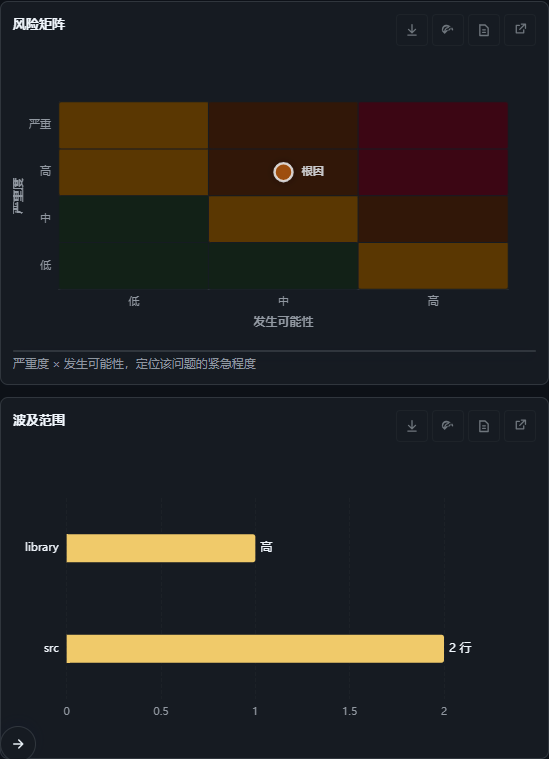
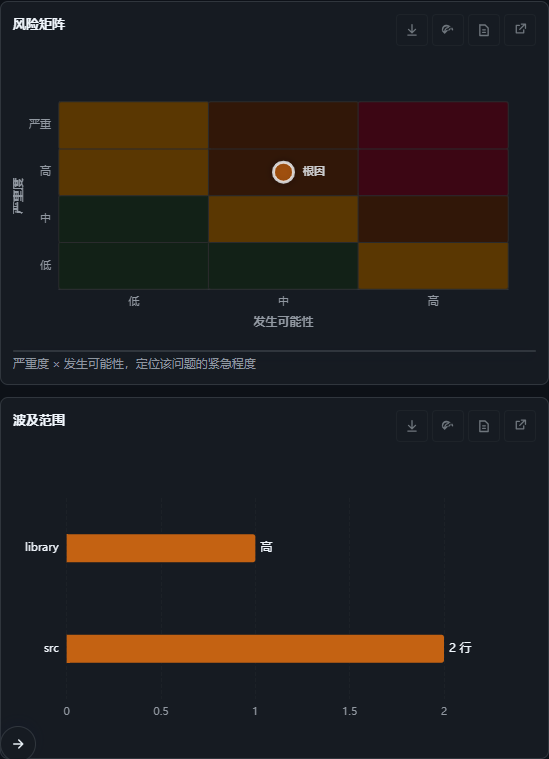
fix(charts): 严重度配色统一为单一来源，暗色风险矩阵分隔更清晰
同一严重度此前在不同图里颜色不同，用户得为每张图重新学映射：
- high：风险矩阵 riskMarkerHigh（橙） vs 波及范围 warning（黄）
- low：success（绿） vs muted（灰）
- medium：warning（黄） vs primary（蓝）

现在 severityColor 直接委托给 riskMarkerColor（单一来源），并新增测试断言锁死该不变量
（同时校验映射键值未被改坏）。截图可见波及范围柱状图已与矩阵标记同色。

另外两处舒适度修复：
- 暗色风险矩阵网格线 #161b22 与深色格底几乎同色，四块连成一片 → 改用官方 gray/1 #2a2b2d。
- 标记略放大（symbolSize 18→20，描边 2.5→3），视线更容易落在标记上。

同时记录格底色选型的实测结论：官方 0-2 档位已是可测指标上的最优（四类两两 ΔE 16.9/20.9、
标记对比度 4.06/4.27）；尝试「官方色相 + 低透明度叠底」时 ΔE 掉到 8.0/5.7、提亮档位也会
降到 10 以下，均更差，故维持官方档位。

验证：pytest 579 passed（覆盖率 97.53%）；ruff check / format --check / mypy 全通过；
本机 e2e 18/18；docs/screenshots 三张图重拍并肉眼复核。

Changed region(s): [[0.1239, 0.8182, 0.8051, 0.8788], [0.1239, 0.697, 0.4645, 0.7576], [0.4954, 0.2121, 0.5883, 0.2424]]

diff --git a/app/static/js/charts.js b/app/static/js/charts.js
@@ -43,7 +43,7 @@
     riskHighHover: "#43200a",  // primer orange/1
     riskCriticalHover: "#58091a",  // primer red/1
     riskMarkerHigh: "#c46212",  // primer orange/5 —— 「高」等级标记色
-    riskGridBorder: "#161b22",
+    riskGridBorder: "#2a2b2d",  // primer gray/1 —— 分隔深色格底，避免糊成一片
     riskMarkerBorder: "#f0f6fc",
     // 证据强度色阶（dark）：同一色系的明暗表达强弱，语义统一
     strengthStrong: "#2f81f7",
@@ -684,8 +684,12 @@
   // ── 区块4：波及范围 ──────────────────────────────────────
   // 受影响模块/文件 treemap：以 impact.blast_radius 为主，补丁改动文件为补充；
   // 叶子大小 = 该文件改动行数（来自补丁）或 1，颜色按严重度。直接回答「有多严重」。
+  //
+  // 配色统一到 riskMarkerColor：同一严重度在报告的任何图里都是同一个颜色。
+  // （此前 high 在风险矩阵是橙色、在波及范围是黄色，low 一处绿色一处灰色，
+  //   用户得为每张图重新学一遍映射。）
   function severityColor(severity, palette) {
-    return ({ critical: palette.danger, high: palette.warning, medium: palette.primary, low: palette.muted })[severity] || palette.muted;
+    return riskMarkerColor(severity, palette);
   }
 
   function riskMarkerColor(severity, palette) {
@@ -1028,13 +1032,13 @@
           // 涟漪标记（effectScatter）：定位点持续脉冲扩散，"问题在这里"一眼锁定。
           // 减弱动效偏好下降级为普通散点，视觉语义保留。
           type: prefersReducedMotion() ? "scatter" : "effectScatter",
-          symbolSize: 18,
+          symbolSize: 20,
           rippleEffect: { period: 3.2, scale: 2.6, brushType: "stroke" },
           data: [{ value: [issueX, issueY], severity: sev, likelihood: like }],
           itemStyle: {
             color: markerColor,
             borderColor: palette.riskMarkerBorder || palette.bg || "#fff",
-            borderWidth: 2.5,
+            borderWidth: 3,
             // 柔和外发光替代硬描边：醒目但不过度突兀
             shadowBlur: 10,
             shadowColor: "rgba(0,0,0,0.28)",

diff --git a/tests/test_chart_palette_accessibility.py b/tests/test_chart_palette_accessibility.py
@@ -216,3 +216,29 @@ def test_risk_cells_stay_distinguishable(theme: str) -> None:
         f"{theme}: {worst_pair[0]}/{worst_pair[1]} 的格底色仅差 {worst:.1f}（要求 ≥ {_MIN_CELL_DELTA_E}），"
         "相邻风险等级的底纹将难以区分。"
     )
+
+
+def test_severity_mapping_is_single_source_of_truth() -> None:
+    """同一严重度在报告的任何图里必须是同一个颜色。
+
+    历史缺陷：high 在风险矩阵用 riskMarkerHigh（橙）、在波及范围用 warning（黄）；
+    low 一处 success（绿）一处 muted（灰）。用户不得不为每张图重新学一遍映射。
+    这里直接解析 charts.js：``severityColor`` 必须委托给 ``riskMarkerColor``。
+    """
+    source = _CHARTS_JS.read_text(encoding="utf-8")
+
+    severity_body = re.search(r"function severityColor\(severity, palette\) \{(.*?)\n  \}", source, re.S)
+    assert severity_body, "未找到 severityColor 定义"
+    assert "riskMarkerColor(severity, palette)" in severity_body.group(1), (
+        "severityColor 必须委托给 riskMarkerColor，否则同一严重度会在不同图里显示成不同颜色。"
+    )
+
+    marker_body = re.search(r"function riskMarkerColor\(severity, palette\) \{(.*?)\n  \}", source, re.S)
+    assert marker_body, "未找到 riskMarkerColor 定义"
+    mapping = dict(re.findall(r"(\w+): palette\.(\w+)", marker_body.group(1)))
+    assert mapping == {
+        "critical": "danger",
+        "high": "riskMarkerHigh",
+        "medium": "warning",
+        "low": "success",
+    }, f"严重度配色映射被改动：{mapping} —— 请同步 _PRIMER_VALUES 与文档说明。"

diff --git a/CHANGELOG.md b/CHANGELOG.md
@@ -46,6 +46,18 @@ and this project adheres to [Semantic Versioning](https://semver.org/spec/v2.0.0
 
 ### Fixed
 
+- **同一严重度在不同图里显示成不同颜色**：`high` 在风险矩阵用 `riskMarkerHigh`（橙）、
+  在波及范围/treemap 用 `warning`（黄）；`low` 一处 `success`（绿）一处 `muted`（灰）；
+  `medium` 一处 `warning`（黄）一处 `primary`（蓝）—— 用户得为每张图重新学一遍映射。
+  现在 `severityColor` 直接委托给 `riskMarkerColor`（单一来源），并新增测试断言锁死这一
+  不变量（同时校验映射本身未被改坏）。
+- **暗色风险矩阵的格底色糊成一片**：网格线用的 `#161b22` 与深色格底几乎同色，四类深色块
+  连成一体。改用官方 `gray/1`（`#2a2b2d`）后分隔清晰，标记也略放大（18→20，描边 2.5→3）。
+- 顺带记录了「格底色最优解」的实测结论：官方 0-2 档位已是可测指标上的最优（四类两两
+  ΔE 16.9 / 20.9）；改用「官方色相 + 低透明度叠底」会让 ΔE 掉到 8.0 / 5.7，反而更难分辨，
+  因此维持官方档位。
+
+
 - **配色回归 GitHub 官方色板（同时保持色盲可区分）**：此前为破解红绿色盲下的色相坍缩，
   「高」等级标记改用了紫色（`#bc8cff` / `#8250df`），偏离了本项目的 GitHub 配色基调。
   现在改为**全部取值来自 `@primer/primitives` 11.10.0 的官方语义色与官方色阶**
